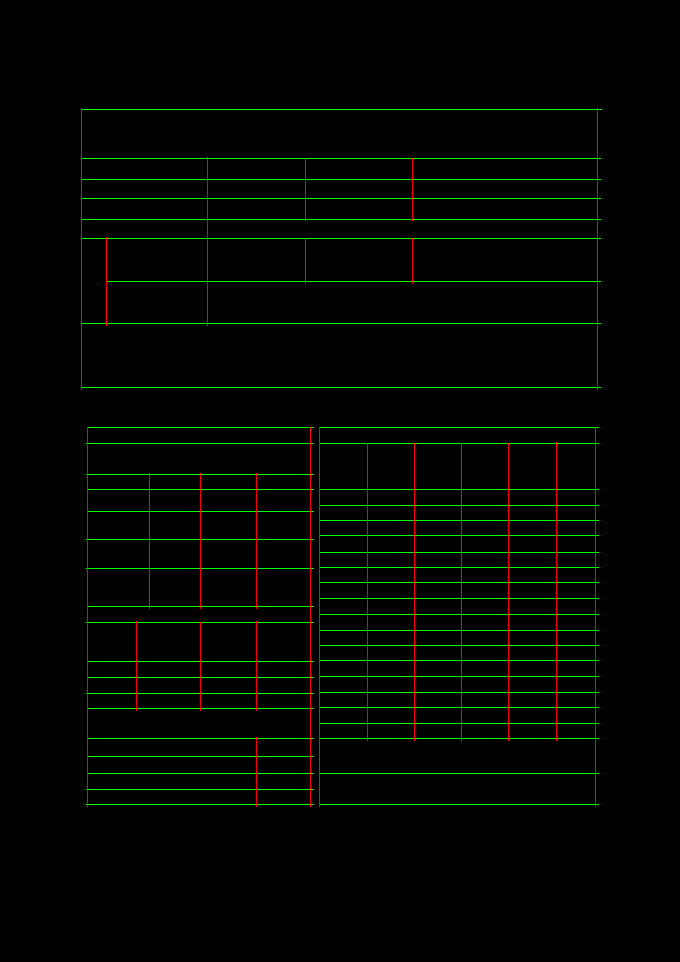
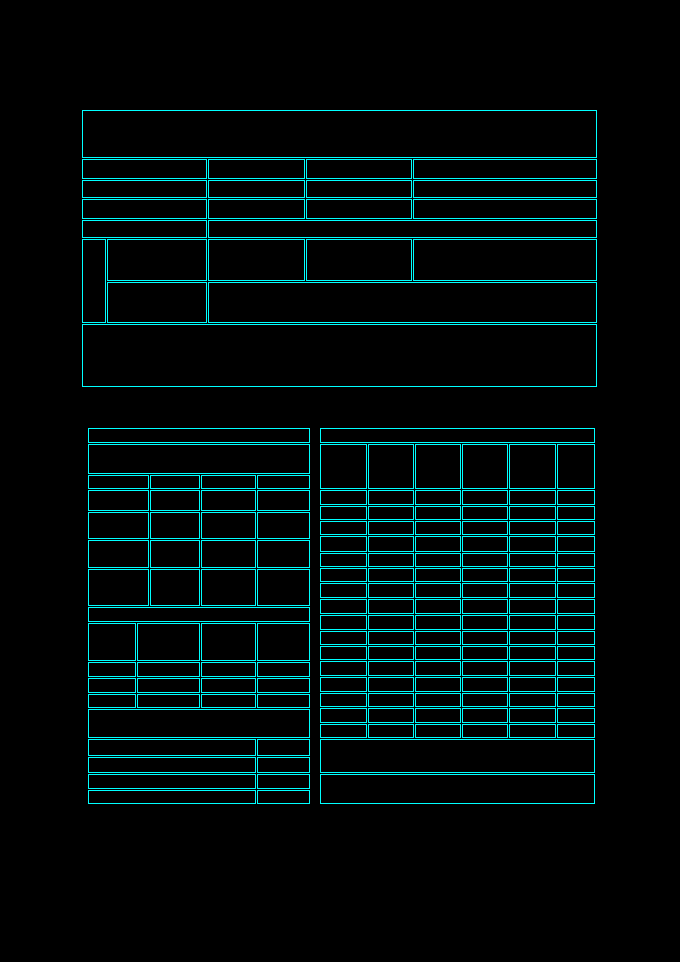
table detection fixed - can detect union-cells now

diff --git a/preprocessing/table2.py b/preprocessing/table2.py
@@ -2,34 +2,6 @@ import sys
 import cv2
 import numpy as np
 
-def sort_line_list(lines):
-    # sort lines into horizontal and vertical
-    vertical = []
-    horizontal = []
-    for line in lines:
-        if line[0] == line[2]:
-            vertical.append(line)
-        elif line[1] == line[3]:
-            horizontal.append(line)
-    vertical.sort()
-    horizontal.sort(key=lambda x: x[1])
-    return horizontal, vertical
-
-
-def remove_duplicates(lines):
-    # remove duplicate lines (lines within 10 pixels of eachother)
-    for x1, y1, x2, y2 in lines:
-        for index, (x3, y3, x4, y4) in enumerate(lines):
-            if y1 == y2 and y3 == y4:
-                diff = abs(y1-y3)
-            elif x1 == x2 and x3 == x4:
-                diff = abs(x1-x3)
-            else:
-                diff = 0
-            if diff < 10 and diff is not 0:
-                del lines[index]
-    return lines
-
 def remove_dup_horiz(lines):
     res = []
     for index, (x1, y1, x2, y2) in enumerate(lines):
@@ -57,7 +29,64 @@ def remove_dup_vert(lines):
                 res.append(lines[index])
                 
     return res
+
+def check_in_range(range_begin, range_end, point):
+    if (point >= range_begin and point <= range_end):
+        return True
+    
+    return False
         
+# this function has logical errors ############################
+def get_cells(horiz_lines, vert_lines):
+    cells = []
+    
+    for L1_index, (L1_x1, L1_y1, L1_x2, L1_y2) in enumerate(horiz_lines):
+        if L1_index == len(horiz_lines) - 1: # or L1_index > 3:
+            break
+            
+        range_begin = 0
+        range_end = 0
+        
+        for L2_index, (L2_x1, L2_y1, L2_x2, L2_y2) in enumerate(horiz_lines):
+            if L1_index >= L2_index:
+                continue
+            if check_in_range(range_begin, range_end, L1_x1) and check_in_range(range_begin, range_end, L1_x2):
+                break
+                
+            if L1_x1 < L2_x2 and L1_x2 > L2_x1:
+                # duplicated range (s_x .. l_x)
+                s_x = L1_x1 - 1
+                if (L1_x1 < L2_x1):
+                    s_x = L2_x1 - 1
+                l_x = L1_x2 + 1
+                if (L1_x2 > L2_x2):
+                    l_x = L2_x2 + 1
+                    
+                if check_in_range(range_begin, range_end, s_x+1) and check_in_range(range_begin, range_end, l_x-1):
+                    continue
+                    
+                old_begin = range_begin
+                old_end = range_end
+                    
+                if range_begin == 0 or range_begin > s_x:
+                    range_begin = s_x
+                if range_end == 0 or range_end < l_x:
+                    range_end = l_x
+                    
+                cell =[0, L1_y1+1, 0, L2_y1-1]
+                for V_x1, V_y1, V_x2, V_y2 in vert_lines:
+                    if (V_y1 <= L1_y1+1 and V_y2 >= L2_y1-1 and V_x1 >= s_x and V_x1 <= l_x) :
+                        if cell[0] == 0:
+                            cell[0] = V_x1 + 1
+                        elif not check_in_range(old_begin, old_end, cell[0]+2):
+                        #else : #if (V_x1 - cell[0]) > 3:
+                            #print ("-------", cell[0], V_x1)
+                            cells.append([cell[0], cell[1], V_x1 - 1, cell[3]])
+                            cell[0] = V_x1 + 1
+    
+    return cells
+    
+    
 if __name__ == '__main__':
     if len(sys.argv) != 2:
         print("1 argument needed: <image path>")
@@ -66,7 +95,7 @@ if __name__ == '__main__':
     path = sys.argv[1]
     img = cv2.imread(path)
     grayimg = cv2.cvtColor(img,cv2.COLOR_BGR2GRAY)
-    binary_img = cv2.adaptiveThreshold(~grayimg, 255, cv2.ADAPTIVE_THRESH_MEAN_C, cv2.THRESH_BINARY, 15, -2);
+    binary_img = cv2.adaptiveThreshold(~grayimg, 255, cv2.ADAPTIVE_THRESH_MEAN_C, cv2.THRESH_BINARY, 15, -2)
     
     horiz_img = binary_img.copy()
     vert_img = binary_img.copy()
@@ -84,7 +113,7 @@ if __name__ == '__main__':
     horiz_lines = []
     mask = np.zeros((img.shape), np.uint8)
     for cnt in contours:
-        x,y,w,h = cv2.boundingRect(cnt);
+        x,y,w,h = cv2.boundingRect(cnt)
         y = int(y + h / 2)
         horiz_lines.append([x,y,x+w,y])
         #cv2.rectangle(mask,(x,y),(x+w,y+h),(0,255,0), 1)
@@ -92,10 +121,10 @@ if __name__ == '__main__':
     horiz_lines = np.array(horiz_lines).tolist()
     horiz_lines.sort(key=lambda x: x[1])
     horiz_lines = remove_dup_horiz(horiz_lines)
-    print(horiz_lines)
+    #print(horiz_lines)
     
-    for x1, y1, x2, y2 in horiz_lines:
-        cv2.line(mask, (x1,y1), (x2,y2), (0,255,0), 1)
+    #for x1, y1, x2, y2 in horiz_lines:
+    #    cv2.line(mask, (x1,y1), (x2,y2), (0,255,0), 1)
 
     # vertical lines
     verticalsize = int(vert_img.shape[1] / scale)
@@ -115,13 +144,19 @@ if __name__ == '__main__':
     vert_lines.sort()
     vert_lines = remove_dup_vert(vert_lines)
 
-    print("----------------")
-    print(vert_lines);
+    #print("----------------")
+    #print(vert_lines);
     
-    for x1, y1, x2, y2 in vert_lines:
-        cv2.line(mask, (x1,y1), (x2,y2), (0,0,255), 1)
+    #for x1, y1, x2, y2 in vert_lines:
+    #    cv2.line(mask, (x1,y1), (x2,y2), (0,0,255), 1)
     
+    cells = get_cells(horiz_lines, vert_lines)
+    #print("----------------")
+    #print(cells)
     
-    cv2.imwrite("table2_res.png", mask);
+    for x1, y1, x2, y2 in cells:
+        cv2.rectangle(mask, (x1,y1), (x2,y2), (255,255,0), 1)
+    
+    cv2.imwrite("table2_res.png", mask)
     
 
